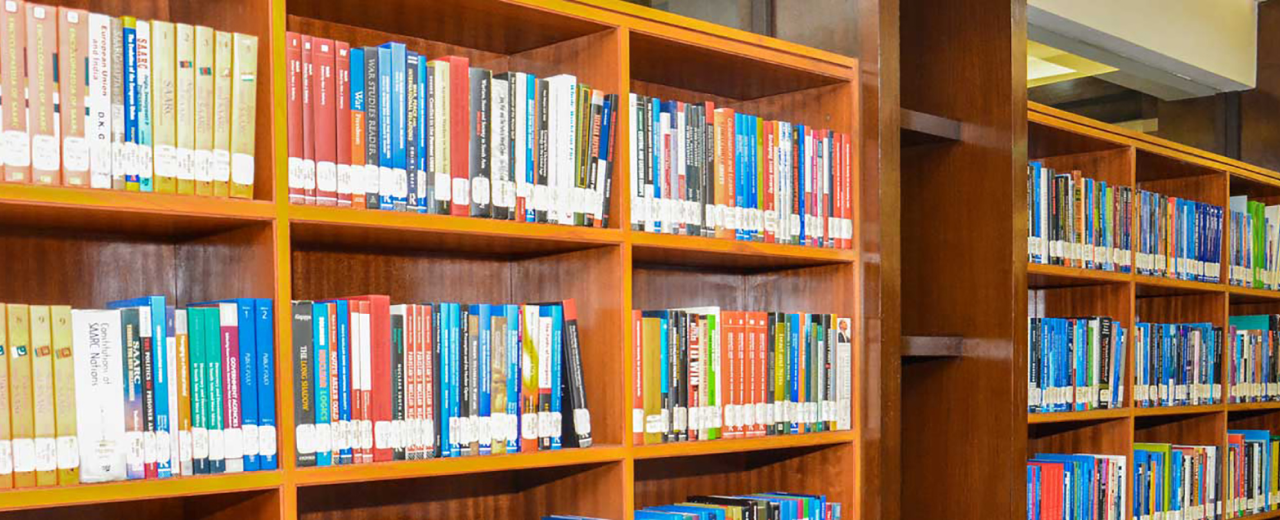
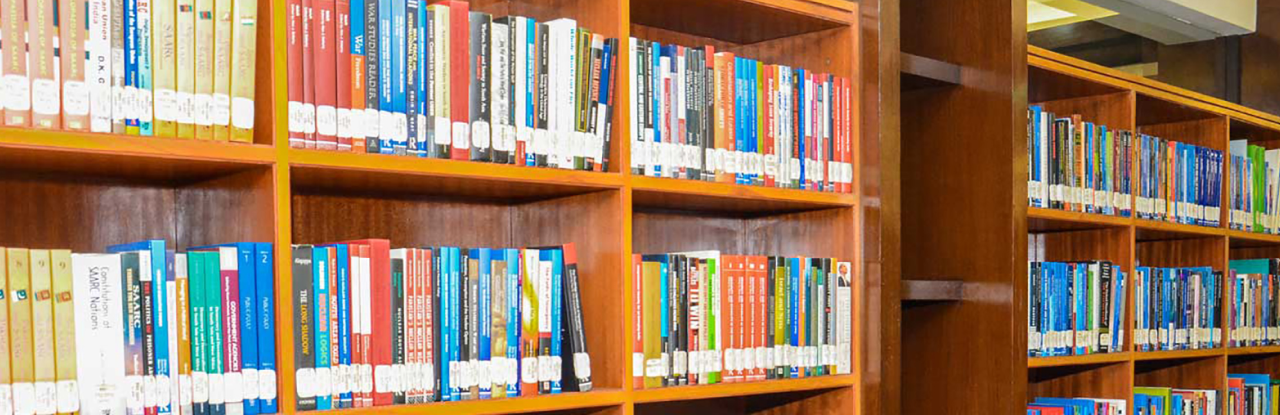
hmm

diff --git a/dist/css/booking.min.css b/dist/css/booking.min.css
@@ -1,1 +1,1 @@
-*{margin:0;padding:0;box-sizing:border-box;font-family:serif}body{display:flex;flex-direction:column;height:auto}.navbar{background-color:#fcfcfc;height:15vh;width:100%;display:flex;justify-content:space-between}.navbar .nav-left{width:40%;display:flex;align-items:center;padding:40px}.navbar .nav-left .logo img{width:60px;height:60px;margin-left:50px}.navbar .nav-left h2{color:#d47907;margin-left:20px;font-size:20px}.navbar .nav-right{width:60%;display:flex;margin-left:20px}.navbar .nav-right ul{width:100%;display:flex;align-items:center;justify-content:space-evenly;list-style:none}.navbar .nav-right ul li{margin-right:20px}.navbar .nav-right ul li a{color:#08707f;text-decoration:none;transition:color .3s;font-weight:bold;font-size:20px}.navbar .nav-right ul li .active{color:#d47907}.navbar .checkbtn{font-size:30px;color:#08707f;cursor:pointer;display:none}.navbar #check{display:none}.bg{height:60vh}footer{background-color:#171d35;height:20vh;width:100%;display:flex;align-items:center;justify-content:center;justify-content:space-around}footer .footer-left,footer .footer-conter,footer .footer-right{display:flex;align-items:center;justify-content:center}footer .footer-left h4,footer .footer-conter h4,footer .footer-right h4{color:#fff}footer .footer-left img,footer .footer-conter img,footer .footer-right img{width:30px;height:30px;margin-right:20px}/*# sourceMappingURL=booking.min.css.map */
+*{margin:0;padding:0;box-sizing:border-box;font-family:serif}body{display:flex;flex-direction:column;height:auto}.navbar{background-color:#fcfcfc;height:15vh;width:100%;display:flex;justify-content:space-between}.navbar .nav-left{width:40%;display:flex;align-items:center;padding:40px}.navbar .nav-left .logo img{width:60px;height:60px;margin-left:50px}.navbar .nav-left h2{color:#d47907;margin-left:20px;font-size:20px}.navbar .nav-right{width:60%;display:flex;margin-left:20px}.navbar .nav-right ul{width:100%;display:flex;align-items:center;justify-content:space-evenly;list-style:none}.navbar .nav-right ul li{margin-right:20px}.navbar .nav-right ul li a{color:#08707f;text-decoration:none;transition:color .3s;font-weight:bold;font-size:20px}.navbar .nav-right ul li .active{color:#d47907}.navbar .checkbtn{font-size:30px;color:#08707f;cursor:pointer;display:none}.navbar #check{display:none}.bg{height:75vh}footer{background-color:#171d35;height:20vh;width:100%;display:flex;align-items:center;justify-content:center;justify-content:space-around}footer .footer-left,footer .footer-conter,footer .footer-right{display:flex;align-items:center;justify-content:center}footer .footer-left h4,footer .footer-conter h4,footer .footer-right h4{color:#fff}footer .footer-left img,footer .footer-conter img,footer .footer-right img{width:30px;height:30px;margin-right:20px}/*# sourceMappingURL=booking.min.css.map */

diff --git a/dist/css/contact.min.css b/dist/css/contact.min.css
@@ -1,1 +1,1 @@
-*{margin:0;padding:0;box-sizing:border-box;font-family:serif}body{display:flex;flex-direction:column;height:auto}.navbar{background-color:#fcfcfc;height:15vh;width:100%;display:flex;justify-content:space-between}.navbar .nav-left{width:40%;display:flex;align-items:center;padding:40px}.navbar .nav-left .logo img{width:60px;height:60px;margin-left:50px}.navbar .nav-left h2{color:#d47907;margin-left:20px;font-size:20px}.navbar .nav-right{width:60%;display:flex;margin-left:20px}.navbar .nav-right ul{width:100%;display:flex;align-items:center;justify-content:space-evenly;list-style:none}.navbar .nav-right ul li{margin-right:20px}.navbar .nav-right ul li a{color:#08707f;text-decoration:none;transition:color .3s;font-weight:bold;font-size:20px}.navbar .nav-right ul li .active{color:#d47907}.navbar .checkbtn{font-size:30px;color:#08707f;cursor:pointer;display:none}.navbar #check{display:none}.bg{height:60vh}footer{background-color:#171d35;height:20vh;width:100%;display:flex;align-items:center;justify-content:center;justify-content:space-around}footer .footer-left,footer .footer-conter,footer .footer-right{display:flex;align-items:center;justify-content:center}footer .footer-left h4,footer .footer-conter h4,footer .footer-right h4{color:#fff}footer .footer-left img,footer .footer-conter img,footer .footer-right img{width:30px;height:30px;margin-right:20px}/*# sourceMappingURL=contact.min.css.map */
+*{margin:0;padding:0;box-sizing:border-box;font-family:serif}body{display:flex;flex-direction:column;height:auto}.navbar{background-color:#fcfcfc;height:15vh;width:100%;display:flex;justify-content:space-between}.navbar .nav-left{width:40%;display:flex;align-items:center;padding:40px}.navbar .nav-left .logo img{width:60px;height:60px;margin-left:50px}.navbar .nav-left h2{color:#d47907;margin-left:20px;font-size:20px}.navbar .nav-right{width:60%;display:flex;margin-left:20px}.navbar .nav-right ul{width:100%;display:flex;align-items:center;justify-content:space-evenly;list-style:none}.navbar .nav-right ul li{margin-right:20px}.navbar .nav-right ul li a{color:#08707f;text-decoration:none;transition:color .3s;font-weight:bold;font-size:20px}.navbar .nav-right ul li .active{color:#d47907}.navbar .checkbtn{font-size:30px;color:#08707f;cursor:pointer;display:none}.navbar #check{display:none}.bg{height:75vh}footer{background-color:#171d35;height:20vh;width:100%;display:flex;align-items:center;justify-content:center;justify-content:space-around}footer .footer-left,footer .footer-conter,footer .footer-right{display:flex;align-items:center;justify-content:center}footer .footer-left h4,footer .footer-conter h4,footer .footer-right h4{color:#fff}footer .footer-left img,footer .footer-conter img,footer .footer-right img{width:30px;height:30px;margin-right:20px}/*# sourceMappingURL=contact.min.css.map */

diff --git a/dist/css/about.min.css b/dist/css/about.min.css
@@ -1,1 +1,1 @@
-*{margin:0;padding:0;box-sizing:border-box;font-family:serif}body{display:flex;flex-direction:column;height:auto}.navbar{background-color:#fcfcfc;height:15vh;width:100%;display:flex;justify-content:space-between}.navbar .nav-left{width:40%;display:flex;align-items:center;padding:40px}.navbar .nav-left .logo img{width:60px;height:60px;margin-left:50px}.navbar .nav-left h2{color:#d47907;margin-left:20px;font-size:20px}.navbar .nav-right{width:60%;display:flex;margin-left:20px}.navbar .nav-right ul{width:100%;display:flex;align-items:center;justify-content:space-evenly;list-style:none}.navbar .nav-right ul li{margin-right:20px}.navbar .nav-right ul li a{color:#08707f;text-decoration:none;transition:color .3s;font-weight:bold;font-size:20px}.navbar .nav-right ul li .active{color:#d47907}.navbar .checkbtn{font-size:30px;color:#08707f;cursor:pointer;display:none}.navbar #check{display:none}.bg{height:60vh}footer{background-color:#171d35;height:20vh;width:100%;display:flex;align-items:center;justify-content:center;justify-content:space-around}footer .footer-left,footer .footer-conter,footer .footer-right{display:flex;align-items:center;justify-content:center}footer .footer-left h4,footer .footer-conter h4,footer .footer-right h4{color:#fff}footer .footer-left img,footer .footer-conter img,footer .footer-right img{width:30px;height:30px;margin-right:20px}/*# sourceMappingURL=about.min.css.map */
+*{margin:0;padding:0;box-sizing:border-box;font-family:serif}body{display:flex;flex-direction:column;height:auto}.navbar{background-color:#fcfcfc;height:15vh;width:100%;display:flex;justify-content:space-between}.navbar .nav-left{width:40%;display:flex;align-items:center;padding:40px}.navbar .nav-left .logo img{width:60px;height:60px;margin-left:50px}.navbar .nav-left h2{color:#d47907;margin-left:20px;font-size:20px}.navbar .nav-right{width:60%;display:flex;margin-left:20px}.navbar .nav-right ul{width:100%;display:flex;align-items:center;justify-content:space-evenly;list-style:none}.navbar .nav-right ul li{margin-right:20px}.navbar .nav-right ul li a{color:#08707f;text-decoration:none;transition:color .3s;font-weight:bold;font-size:20px}.navbar .nav-right ul li .active{color:#d47907}.navbar .checkbtn{font-size:30px;color:#08707f;cursor:pointer;display:none}.navbar #check{display:none}.bg{height:75vh}footer{background-color:#171d35;height:20vh;width:100%;display:flex;align-items:center;justify-content:center;justify-content:space-around}footer .footer-left,footer .footer-conter,footer .footer-right{display:flex;align-items:center;justify-content:center}footer .footer-left h4,footer .footer-conter h4,footer .footer-right h4{color:#fff}footer .footer-left img,footer .footer-conter img,footer .footer-right img{width:30px;height:30px;margin-right:20px}/*# sourceMappingURL=about.min.css.map */

diff --git a/dist/css/main.min.css b/dist/css/main.min.css
@@ -1,1 +1,1 @@
-*{margin:0;padding:0;box-sizing:border-box;font-family:serif}body{display:flex;flex-direction:column;height:auto}.navbar{background-color:#fcfcfc;height:15vh;width:100%;display:flex;justify-content:space-between}.navbar .nav-left{width:40%;display:flex;align-items:center;padding:40px}.navbar .nav-left .logo img{width:60px;height:60px;margin-left:50px}.navbar .nav-left h2{color:#d47907;margin-left:20px;font-size:20px}.navbar .nav-right{width:60%;display:flex;margin-left:20px}.navbar .nav-right ul{width:100%;display:flex;align-items:center;justify-content:space-evenly;list-style:none}.navbar .nav-right ul li{margin-right:20px}.navbar .nav-right ul li a{color:#08707f;text-decoration:none;transition:color .3s;font-weight:bold;font-size:20px}.navbar .nav-right ul li .active{color:#d47907}.navbar .checkbtn{font-size:30px;color:#08707f;cursor:pointer;display:none}.navbar #check{display:none}.bg{height:60vh}footer{background-color:#171d35;height:20vh;width:100%;display:flex;align-items:center;justify-content:center;justify-content:space-around}footer .footer-left,footer .footer-conter,footer .footer-right{display:flex;align-items:center;justify-content:center}footer .footer-left h4,footer .footer-conter h4,footer .footer-right h4{color:#fff}footer .footer-left img,footer .footer-conter img,footer .footer-right img{width:30px;height:30px;margin-right:20px}/*# sourceMappingURL=main.min.css.map */
+*{margin:0;padding:0;box-sizing:border-box;font-family:serif}body{display:flex;flex-direction:column;height:auto}.navbar{background-color:#fcfcfc;height:15vh;width:100%;display:flex;justify-content:space-between}.navbar .nav-left{width:40%;display:flex;align-items:center;padding:40px}.navbar .nav-left .logo img{width:60px;height:60px;margin-left:50px}.navbar .nav-left h2{color:#d47907;margin-left:20px;font-size:20px}.navbar .nav-right{width:60%;display:flex;margin-left:20px}.navbar .nav-right ul{width:100%;display:flex;align-items:center;justify-content:space-evenly;list-style:none}.navbar .nav-right ul li{margin-right:20px}.navbar .nav-right ul li a{color:#08707f;text-decoration:none;transition:color .3s;font-weight:bold;font-size:20px}.navbar .nav-right ul li .active{color:#d47907}.navbar .checkbtn{font-size:30px;color:#08707f;cursor:pointer;display:none}.navbar #check{display:none}.bg{height:75vh}footer{background-color:#171d35;height:20vh;width:100%;display:flex;align-items:center;justify-content:center;justify-content:space-around}footer .footer-left,footer .footer-conter,footer .footer-right{display:flex;align-items:center;justify-content:center}footer .footer-left h4,footer .footer-conter h4,footer .footer-right h4{color:#fff}footer .footer-left img,footer .footer-conter img,footer .footer-right img{width:30px;height:30px;margin-right:20px}/*# sourceMappingURL=main.min.css.map */

diff --git a/pages/about.html b/pages/about.html
@@ -31,7 +31,33 @@
         <img src="../images/about/bg.jpg" alt="">
     </div>
     <section>
-        <h1>hello</h1>
+        <div class="text-section">
+            <h1>History about Sunrise library book</h1>
+            <p>We develop, organize, provide access to and preserve materials to meet needs of present and future generations of students and scholars. We explore innovative technologies and services to deliver information scholarly conveniently to users anytime/any place.</p>
+        </div>
+        <main>
+            <div class="main-top">
+                <h1>Our Mission</h1>
+                <p>Our mission is to foster a love of reading, improve literacy skills, and support socio-emotional..</p>
+                <div class="group-card">
+                    <div class="card">
+                        <img src="../images/about/image 176.png" alt="">
+                        <h5>Provide Resources and Technology</h5>
+                        <p>The goal for reading book is importance for us anOffer books, digital media, and technology to support learning and research.d goal for reading book is important for us.</p>
+                    </div>
+                    <div class="card">
+                        <img src="../images/about/image 177.png" alt="">
+                        <h5>Access to Knowledge</h5>
+                        <p> Ensure open and equitable access to information for everyone, regardless of background. Encourage a passion for learning and intellectual growth.</p>
+                    </div>
+                    <div class="card">
+                        <img src="../images/about/image 178.png" alt="">
+                        <h5>Curiosity and Exploration</h5>
+                        <p>Create an environment where curiosity is nurtured, and new ideas are explored.</p>
+                    </div>
+                </div>
+            </div>
+        </main>
     </section>
     <footer>
         <div class="footer-left">

diff --git a/pages/booking.html b/pages/booking.html
@@ -28,7 +28,7 @@
         </div>
     </nav>
     <div class="bg">
-        <img src="../images/about/bg.jpg" alt="">
+        <img src="../images/contact/image 136.png" alt="">
     </div>
     <section>
         <h1>hello</h1>

diff --git a/pages/contact.html b/pages/contact.html
@@ -28,7 +28,7 @@
         </div>
     </nav>
     <div class="bg">
-        <img src="../images/about/bg.jpg" alt="">
+        <img src="../images/contact/image 136.png" alt="">
     </div>
     <section>
         <h1>hello</h1>

diff --git a/index.html b/index.html
@@ -28,7 +28,7 @@
         </div>
     </nav>
     <div class="bg">
-        <img src="images/about/bg.jpg" alt="">
+        <img src="images/home/bg.png" alt="">
     </div>
     <section>
         <h1>hello</h1>

diff --git a/sass/mixins/_groupmixin.scss b/sass/mixins/_groupmixin.scss
@@ -4,5 +4,5 @@
     justify-content: center;
 }
 @mixin bg{
-    height: 60vh;
+    height: 75vh;
 }

diff --git a/css/about.css b/css/about.css
@@ -70,7 +70,7 @@ body {
 }
 
 .bg {
-  height: 60vh;
+  height: 75vh;
 }
 
 footer {

diff --git a/css/booking.css b/css/booking.css
@@ -70,7 +70,7 @@ body {
 }
 
 .bg {
-  height: 60vh;
+  height: 75vh;
 }
 
 footer {

diff --git a/css/contact.css b/css/contact.css
@@ -70,7 +70,7 @@ body {
 }
 
 .bg {
-  height: 60vh;
+  height: 75vh;
 }
 
 footer {
